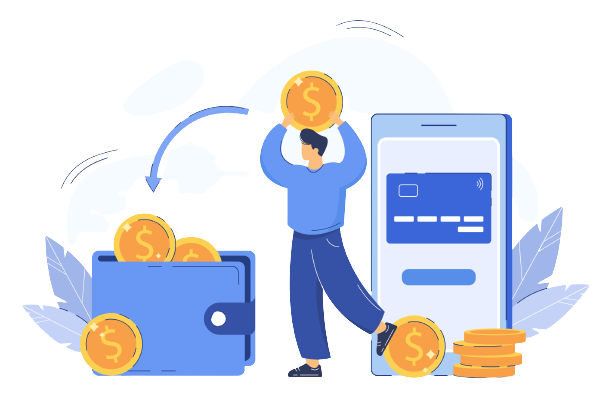
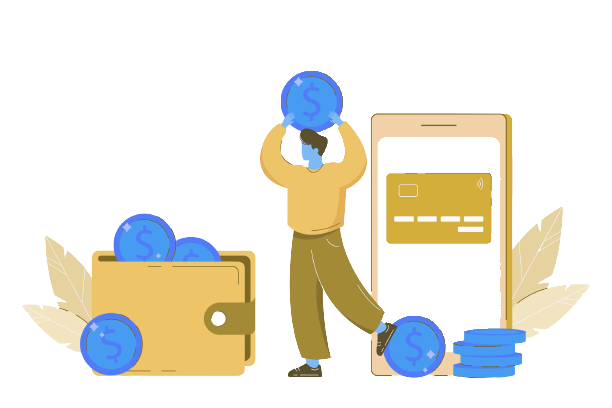
Some redesign done to the page no changes to functionality

diff --git a/src/components/ourBody.jsx b/src/components/ourBody.jsx
@@ -1,6 +1,7 @@
 import React from 'react'
 import {generate} from "random-words";
-import image from '../pic1.png'
+import image from '../pic.jpg'
+import search from '../search.png'
 
 
 const ourBody = () => {
@@ -33,27 +34,32 @@ const ourBody = () => {
   return (
     <div className="wrapper flex flex-col">
       <div className="text-center my-4">
-        <h1 className="text-2xl md:text-3xl lg:text-4xl font-josefin text-stone-700">
+        <h1 className="text-2xl md:text-3xl lg:text-4xl font-josefin text-[#CBE4DE]">
           Earn Microsoft Reward Points Automatically
         </h1>
       </div>
-      <div className='image sm:w-[80vw] md:w-[75vw] lg:w-[30vw] mx-auto'>
+      <div className='image md:w-[70vw] lg:w-[30vw] mx-auto'>
         <img src={image} alt="man adding money to wallet" className='rounded-xl shadow-sm' />
       </div>
       <div className="mx-auto items-center flex flex-col gap-5">
-        <label htmlFor="myInp" className="text-[#141413] text-xl md:text-2xl lg:text-3xl font-fasthand">How many Searches you want to perform?</label>
-        <input type="number" id="myInp" className="w-72 py-2 rounded-lg bg-[#f59a51]/60 outline-2 outline outline-offset-2 text-center text-slate-900 text-lg font-josefin font-bold"/>
+        <label htmlFor="myInp" className="text-[#CBE4DE] text-xl md:text-2xl lg:text-3xl font-fasthand">How many Searches you want to perform?</label>
+        <input type="number" id="myInp" className="w-72 py-2 rounded-lg bg-[#64CCC5]/50 outline-2 outline outline-offset-2 text-center text-slate-800 text-lg font-josefin font-bold"/>
         
-        <p id='note' className='text-[#141413]/60 font-josefin text-sm w-3/4 text-center'>Note: In Mobile, all you need is 20 searches to earn maximum points.</p>
+        <p id='note' className='text-[#FFD95A]/60 font-josefin text-sm w-3/4 text-center'>Note: In Mobile, all you need is 20 searches to earn maximum points.</p>
         <div>
           
-        <button className="bg-[#446bd0] hover:bg-[#446bd0]/50 py-2 rounded-lg text-lg text-stone-900 font-josefin font-bold w-60" onClick={stopSearch}>Search</button>
+        <button className="bg-[#0E8388] hover:bg-[#0E8388]/50 py-2 rounded-lg text-lg text-slate-800 font-josefin font-bold w-60 flex items-center" onClick={stopSearch}>
+          <p className='ml-[30%] w-fit'>Search</p>
+          <span className='ml-[7%] w-fit'>
+        <img src={search} alt="search icon" className='w-6' />
+        </span>
+          </button>
       </div>
       <footer className='sm:mt-20 mt-14 flex flex-col items-center'>
-        <p className='text-xs opacity-40'>Image by redgreystock on Freepik</p>
-        <p className='text-xs opacity-40'>Made by</p>
-        <p className='text-xs opacity-60'>Sopan Roy</p>
-        <p className='text-xs opacity-80'>💙</p>
+        <p className='text-xs text-[#FFF7D4] opacity-40'>Image by <a href="https://pixabay.com/users/mohamed_hassan-5229782/?utm_source=link-attribution&utm_medium=referral&utm_campaign=image&utm_content=6039919">Mohamed Hassan</a> from <a href="https://pixabay.com//?utm_source=link-attribution&utm_medium=referral&utm_campaign=image&utm_content=6039919">Pixabay</a></p>
+        <p className='text-xs text-[#FFF7D4] opacity-40'>Made by</p>
+        <p className='text-xs text-[#FFF7D4] opacity-60'>Sopan Roy</p>
+        <p className='text-xs opacity-70'>💛</p>
       </footer>
       </div>
       

diff --git a/src/components/ourNav.jsx b/src/components/ourNav.jsx
@@ -3,8 +3,8 @@ import React from 'react'
 const Navbar = () => {
   return (
     <>
-    <nav className='bg-[#446bd0] h-16 w-screen flex items-center'> 
-      <h1 className='mx-auto text-[#f3faff] font-rubik text-3xl md:text-4xl lg:text-5xl'>BING AUTO SEARCH</h1>
+    <nav className='bg-[#2C3333] h-16 w-screen flex items-center'> 
+      <h1 className='mx-auto text-lime-100 font-rubik text-3xl md:text-4xl lg:text-5xl'>BING AUTO SEARCH</h1>
     </nav>
     </>
   )

diff --git a/index.html b/index.html
@@ -3,9 +3,10 @@
   <head>
     <meta charset="UTF-8" />
     <meta name="viewport" content="width=device-width, initial-scale=1.0" />
+    <link rel="icon" href="./src/favicon.ico.png">
     <title>Bing Auto Search Portal</title>
   </head>
-  <body class="bg-[#f3faff]">
+  <body class="bg-[#0b5057]">
     <div id="root"></div>
     <script type="module" src="/src/main.jsx"></script>
   </body>
